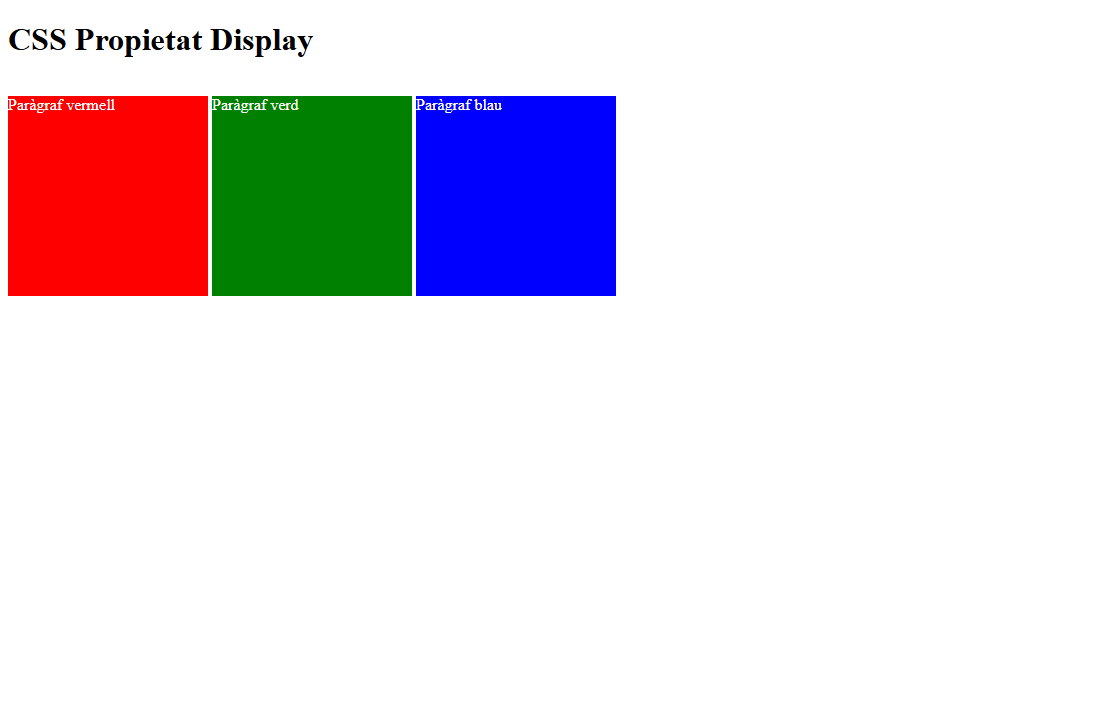
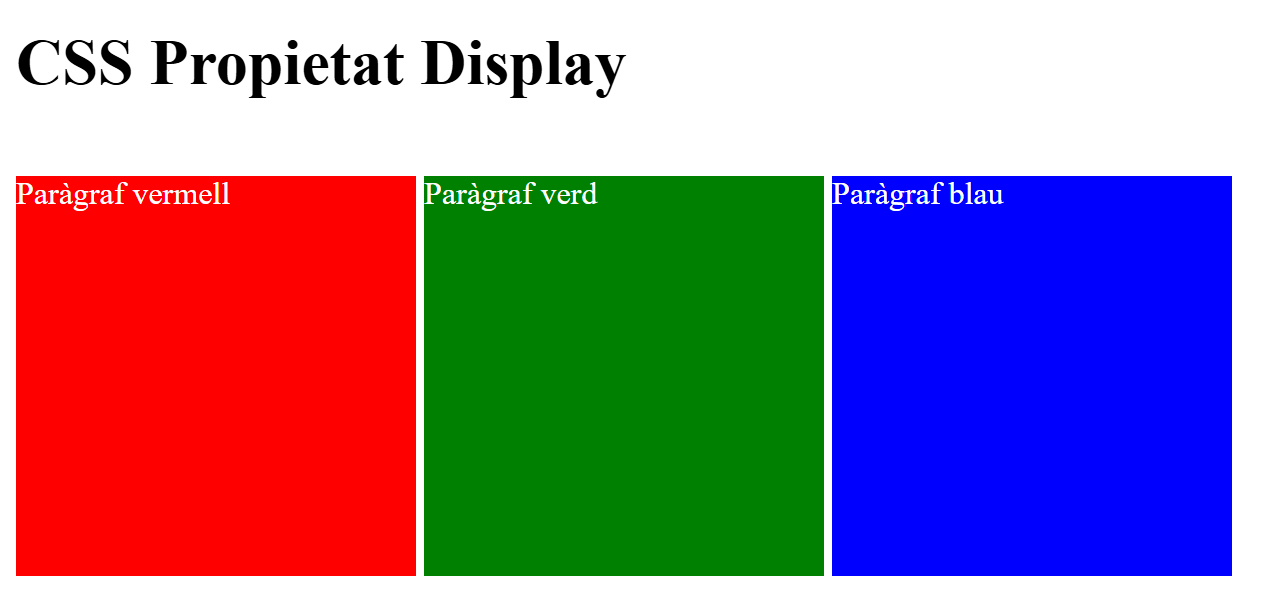
Tighten CSS screenshots, add a connect-four shot, fix the pom Java version
- CSS exercise screenshots were full-page grabs with most of the frame empty;
  re-shot cropped to content. Dropped the float shot (its two content images
  aren't in the repo, so it rendered with broken-image icons) and showed the
  position exercise instead.
- Added a real in-game screenshot of connect-four, the flagship Java exercise.
- connect-four/pom.xml demanded Java 24 while the README says JDK 17+; set the
  compiler release to 17 to match, and documented the exec:java run command.

diff --git a/README.md b/README.md
@@ -21,6 +21,10 @@ or duplicated another exercise, was dropped.
 | `fibonacci/` | Fibonacci as a string builder. Iteration, `StringBuilder`, off-by-one care. |
 | `oop-basics/` | First object-oriented exercises: a class with a documented method, a `main` that drives it. |
 
+![Connect Four mid-game against the AI — red is the player, blue is the minimax opponent, the side panel tracks the clock and whose turn it is](docs/screenshots/connect-four.png)
+
+A game in progress in `java/connect-four`.
+
 ### python/
 
 | Folder | What it practices |
@@ -58,9 +62,9 @@ A few of them, opened in a browser:
 :---:|:---:
 `flag/` | `box-model/`
 
-![The display exercise — three inline-block coloured blocks](docs/screenshots/display.png) | ![The float exercise — two text columns floated side by side](docs/screenshots/float.png)
+![The display exercise — three inline-block coloured blocks](docs/screenshots/display.png) | ![The position exercise — a red circle absolutely positioned to the bottom-right of a blue box, overflowing it](docs/screenshots/position.png)
 :---:|:---:
-`display/` | `float/`
+`display/` | `position/`
 
 ### bash/
 
@@ -79,7 +83,8 @@ database user. Plain notes, kept as Markdown.
 
 - **Java single files:** `javac File.java && java File` (JDK 17+). `connect-four`
   needs Maven and pulls Processing 4 and JOGL from Maven Central: `cd
-  java/connect-four && ./mvnw compile`.
+  java/connect-four && ./mvnw compile`, then run it with
+  `./mvnw exec:java -Dexec.mainClass=com.example.connectfour.Main`.
 - **Python:** `python file.py`. The `basics/` scripts that import `llibreria`
   expect it in the same folder, which it is.
 - **JavaScript:** these use browser `prompt`, so run them in the browser console
